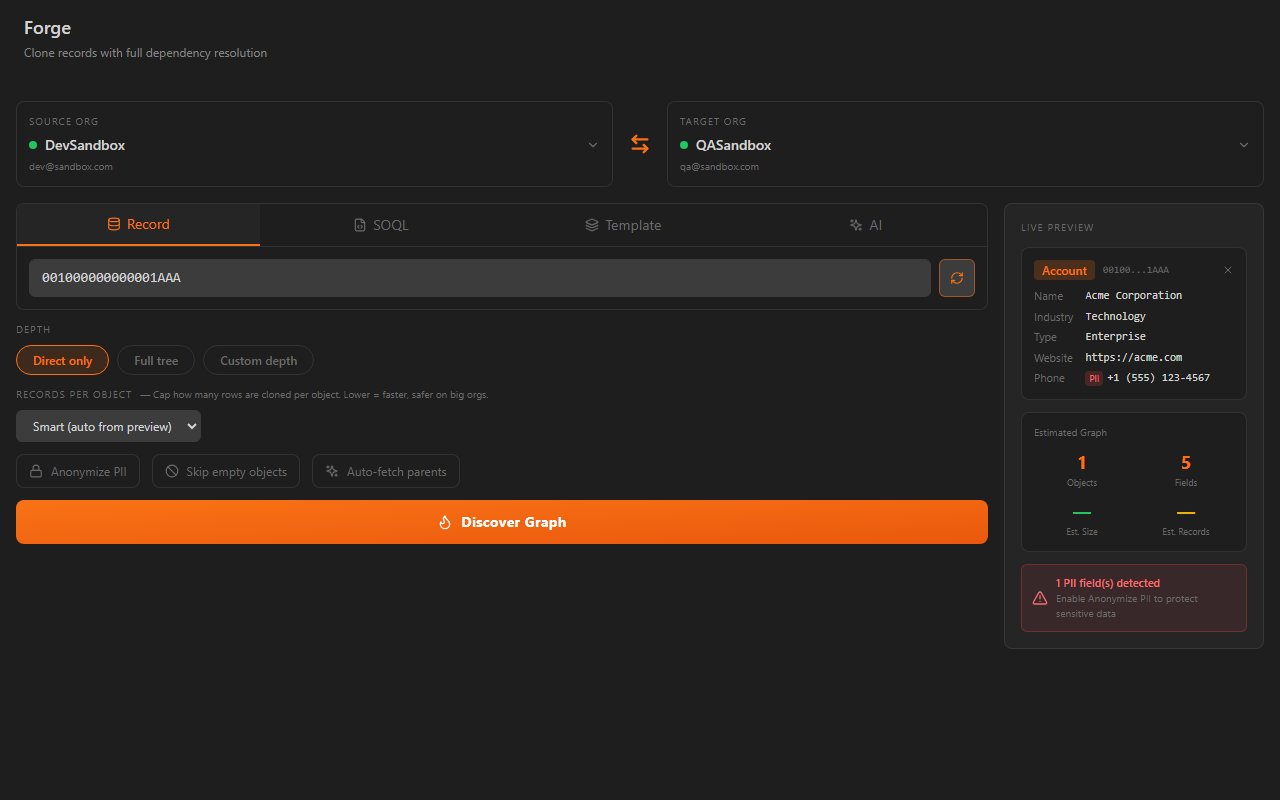
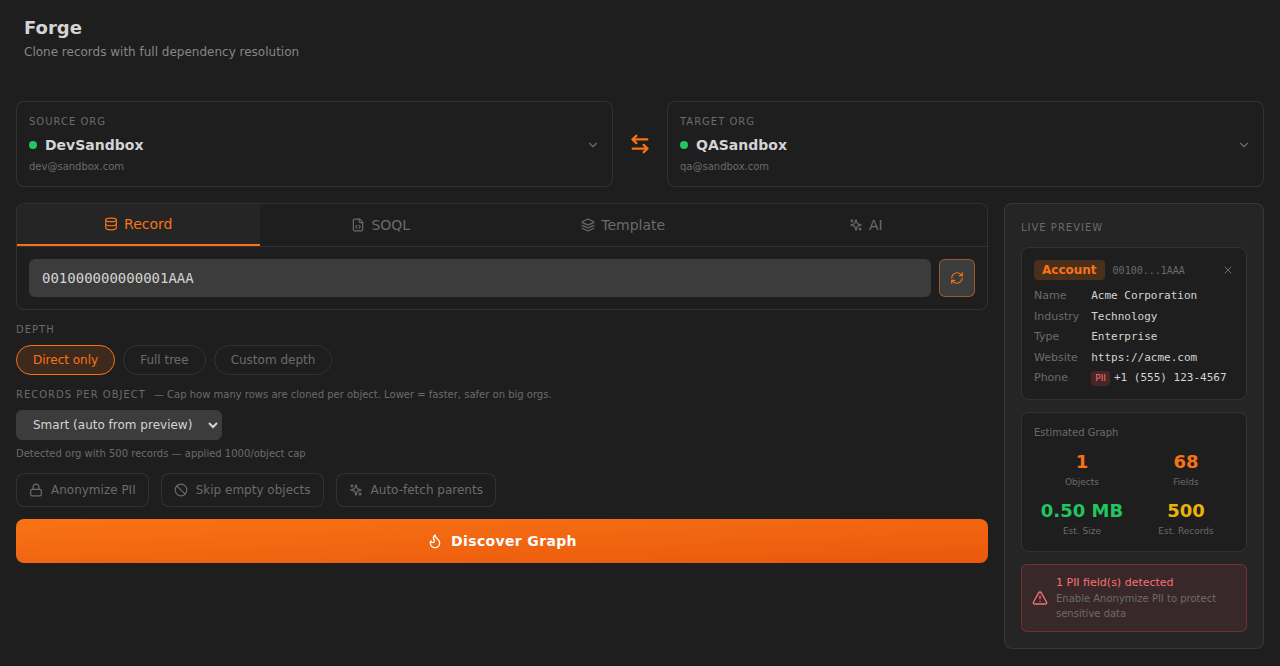
fix(dataops)+docs(screenshots): stop shipping a listing that pictures a bug
VIS-06 was a product defect the screenshot happened to preserve: the DataOps
header read "Select Org" whether or not an org was selected, two elements to
the left of a badge naming the selected org. It is a prompt, not a subtitle, so
it now shows only when there is nothing chosen.

VIS-05 was the flagship module's shot rendering half an empty card — Objects
and Fields filled, Est. Size and Est. Records dashes — because the fixture never
sent them. The three now agree with the product's own arithmetic
(ForgeHandler.ts:465 derives size as records x 0.001), so the card shows a
number the product could actually produce.

VIS-04: the generator shot a fixed 1280x800 and spent up to 29% of every image
on empty background, which the Marketplace then scales down along with the
content. It measures the panel's first child instead — `main.scrollHeight` is
clamped to its own clientHeight and answers 800 for content ending at 566 — and
settles twice, because Recharts restarts its entry animation on resize.

dataops 800 -> 566, forge -> 666, home -> 730; monitor genuinely fills 800.

diff --git a/packages/webview/e2e/screenshots.spec.ts b/packages/webview/e2e/screenshots.spec.ts
@@ -79,6 +79,42 @@ async function respondToAll(
 }
 
 /**
+ * Shrink the viewport to the height the panel actually renders, then shoot.
+ *
+ * A fixed 1280x800 spent between 10% and 29% of every image on empty
+ * background, and the Marketplace scales the whole thing down to fit its
+ * carousel — so the padding is paid for twice: once in dead pixels, once in
+ * the legibility of what is left.
+ *
+ * The obvious measurement is wrong. `main.scrollHeight` is clamped to the
+ * element's own `clientHeight` when the element is the scroll container, so it
+ * answers 800 for content that ends at 570. The panel's first child is not a
+ * scroll container and reports its real height.
+ *
+ * Recharts restarts its 1500 ms entry animation on resize, so the second
+ * settle is not belt-and-braces — without it Monitor shoots mid-animation.
+ */
+async function shoot(
+  page: import('@playwright/test').Page,
+  name: string,
+): Promise<void> {
+  const height = await page.evaluate(() => {
+    const panel = document.querySelector('[data-testid="panel-app"]');
+    const content = panel?.firstElementChild as HTMLElement | null | undefined;
+    return content ? Math.ceil(content.getBoundingClientRect().height) : 0;
+  });
+
+  // Never grow past the design viewport, and keep a floor so a panel that
+  // measures oddly still produces a usable image rather than a sliver.
+  if (height > 0 && height < VIEWPORT.height) {
+    await page.setViewportSize({ width: VIEWPORT.width, height: Math.max(height, 360) });
+    await settle(page);
+  }
+
+  await page.screenshot({ path: `${SCREENSHOT_DIR}/${name}.png` });
+}
+
+/**
  * Let entry animations and layout settle before capturing.
  *
  * Long enough to outlast Recharts' 1500ms default entry animation — a shorter
@@ -210,7 +246,7 @@ test.describe('Marketplace Screenshots', () => {
     await page.waitForSelector('[data-testid="home-page"]');
     await page.waitForSelector('[data-testid="forge-hero-card"]');
     await settle(page);
-    await page.screenshot({ path: `${SCREENSHOT_DIR}/home.png` });
+    await shoot(page, 'home');
   });
 
   test('forge', async ({ page }) => {
@@ -239,11 +275,20 @@ test.describe('Marketplace Screenshots', () => {
         { name: 'Website', value: 'https://acme.com' },
         { name: 'Phone', value: '+1 (555) 123-4567' },
       ],
+      // Without these three the Estimated Graph card renders two numbers and
+      // two dashes — half an empty card, on the flagship module's screenshot.
+      // They must agree with each other: the product derives size from the
+      // record count with `estimatedRecordCount * 0.001` (ForgeHandler.ts:465),
+      // so any pair that does not satisfy it shows the user an arithmetic the
+      // product would never produce.
+      estimatedRecordCount: 500,
+      totalFieldCount: 68,
+      estimatedSize: 0.5,
     });
 
     await page.waitForSelector('[data-testid="forge-record-preview"]');
     await settle(page);
-    await page.screenshot({ path: `${SCREENSHOT_DIR}/forge.png` });
+    await shoot(page, 'forge');
   });
 
   test('monitor', async ({ page }) => {
@@ -256,7 +301,7 @@ test.describe('Marketplace Screenshots', () => {
     await page.waitForSelector('[data-testid="monitor-page"]');
     await page.waitForSelector('[data-testid="storage-donut-chart"]');
     await settle(page);
-    await page.screenshot({ path: `${SCREENSHOT_DIR}/monitor.png` });
+    await shoot(page, 'monitor');
   });
 
   test('dataops', async ({ page }) => {
@@ -274,7 +319,7 @@ test.describe('Marketplace Screenshots', () => {
     );
     await page.waitForSelector('[data-testid="dataops-page"]');
     await settle(page);
-    await page.screenshot({ path: `${SCREENSHOT_DIR}/dataops.png` });
+    await shoot(page, 'dataops');
   });
 
 

diff --git a/packages/webview/src/pages/DataOps/DataOpsPage.tsx b/packages/webview/src/pages/DataOps/DataOpsPage.tsx
@@ -240,7 +240,10 @@ export const DataOpsPage: React.FC = () => {
           all while silently acting on the first one in the list. */}
       <PageHeader
         title={t('dataops.title')}
-        subtitle={t('dataops.selectOrg')}
+        // "Select Org" is a prompt, not a description: showing it while an org
+        // IS selected — and named by the badge two elements to the right —
+        // reads as "no org chosen" on a page that is about to write to one.
+        subtitle={currentOrg ? undefined : t('dataops.selectOrg')}
         icon="tools"
         actions={
           currentOrg ? (
